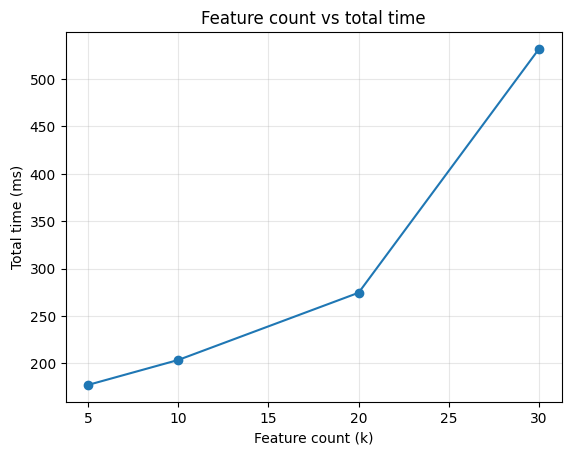
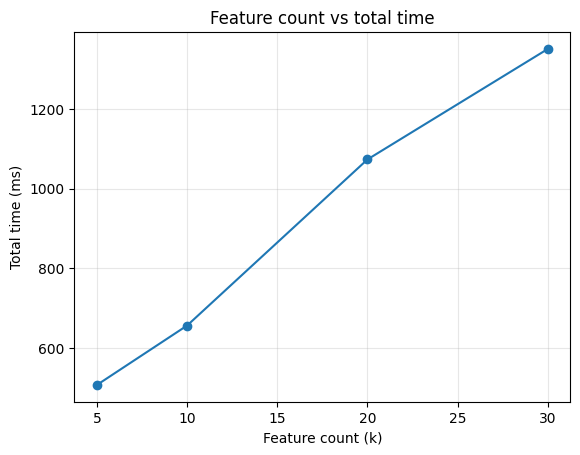
Fix encoded plaintext calculation in UI

diff --git a/ui/streamlit_app.py b/ui/streamlit_app.py
@@ -9,15 +9,16 @@ import warnings
 from pathlib import Path
 from typing import Any
 
+import numpy as np
 import pandas as pd
 import requests
 import streamlit as st
 
 from app.client import Client
-from app.config import KEY_LENGTH, RANDOM_STATE, SCALE, TEST_SIZE
-from app.crypto import deserialize_ciphertext, serialize_ciphertext
+from app.config import KEY_LENGTH, RANDOM_STATE, SCALE, TEST_SIZE, THRESHOLD
+from app.crypto import decrypt_score, deserialize_ciphertext, serialize_ciphertext
 from app.data import load_dataset, split_dataset
-from app.encoding import encode_bias, encode_weights
+from app.encoding import decode_score, encode_bias, encode_weights, encoded_plaintext_score
 from app.model import extract_linear_params, load_model
 
 warnings.filterwarnings("ignore", category=UserWarning, module="sklearn")
@@ -28,7 +29,7 @@ st.set_page_config(page_title="Защищённый ML-инференс — Де
 MODEL_PATH = Path("results/models/model.pkl")
 TABLES_DIR = Path("results/tables")
 PLOTS_DIR = Path("results/plots")
-API_URL = os.getenv("API_URL", "http://api:8000")
+API_URL = os.getenv("API_URL", "http://localhost:8000")
 
 
 def _extract_server_compute_ms(payload: dict[str, Any]) -> float | None:
@@ -172,7 +173,10 @@ def show_live_protocol_demo(resources: dict[str, Any]) -> None:
         enc_score = deserialize_ciphertext(client.public_key, encrypted_score_str)
         t3 = time.perf_counter()
 
-        pred_secure, prob_secure = client.decrypt_and_predict(enc_score)
+        score_int = decrypt_score(client.private_key, enc_score)
+        z_secure = decode_score(score_int=score_int, scale=SCALE)
+        prob_secure = float(1.0 / (1.0 + np.exp(-z_secure)))
+        pred_secure = int(prob_secure >= THRESHOLD)
         t4 = time.perf_counter()
 
         pred_baseline = int(model.predict(sample.to_numpy(dtype=float).reshape(1, -1))[0])
@@ -180,7 +184,10 @@ def show_live_protocol_demo(resources: dict[str, Any]) -> None:
             model.predict_proba(sample.to_numpy(dtype=float).reshape(1, -1))[:, 1][0]
         )
 
-        pred_encoded = int(prob_secure >= 0.5)
+        w, b = extract_linear_params(model)
+        z_encoded = encoded_plaintext_score(x=x_scaled, w=w, b=b, scale=SCALE)
+        prob_encoded = float(1.0 / (1.0 + np.exp(-z_encoded)))
+        pred_encoded = int(prob_encoded >= THRESHOLD)
         payload_bytes = len(str(request_payload).encode("utf-8"))
         plaintext_bytes = len(sample.to_numpy(dtype=float).tobytes())
         overhead_ratio = payload_bytes / max(plaintext_bytes, 1)
@@ -191,8 +198,12 @@ def show_live_protocol_demo(resources: dict[str, Any]) -> None:
             "x_int": x_int,
             "enc_x": enc_x,
             "encrypted_score": encrypted_score_str,
+            "score_int": score_int,
+            "z_secure": z_secure,
             "prob_secure": prob_secure,
             "pred_secure": pred_secure,
+            "z_encoded": z_encoded,
+            "prob_encoded": prob_encoded,
             "pred_encoded": pred_encoded,
             "pred_baseline": pred_baseline,
             "prob_baseline": prob_baseline,
@@ -281,33 +292,49 @@ def show_live_protocol_demo(resources: dict[str, Any]) -> None:
         )
 
     st.markdown("**Расшифровка и итог**")
-    st.write(
-        f"Расшифрованная оценка (score, сериализованное значение): `{result['encrypted_score'][:80]}...`"
+    decrypt_steps_df = pd.DataFrame(
+        [
+            {
+                "Этап": "Зашифрованный score (шифртекст)",
+                "Значение": f"{result['encrypted_score'][:80]}...",
+            },
+            {"Этап": "Расшифрованный score_int", "Значение": str(result["score_int"])},
+            {"Этап": "Декодированный z", "Значение": f"{result['z_secure']:.6f}"},
+            {"Этап": "Вероятность sigmoid(z)", "Значение": f"{result['prob_secure']:.6f}"},
+            {"Этап": "Предсказание", "Значение": str(result["pred_secure"])},
+        ]
     )
-    st.write(f"Сигмоида(score): **{result['prob_secure']:.6f}**")
-    st.write(f"Итоговый прогноз: **{result['pred_secure']}**")
+    st.dataframe(decrypt_steps_df, width="stretch")
 
     st.subheader("Шаг 3. Сравнение прогнозов")
     comparison_df = pd.DataFrame(
         [
             {
+                "Метод": "Baseline",
                 "Истинная метка": result["true_label"],
-                "Baseline": result["pred_baseline"],
-                "Encoded": result["pred_encoded"],
-                "PHE": result["pred_secure"],
-                "Совпадение Baseline/PHE": "Да"
-                if result["pred_baseline"] == result["pred_secure"]
-                else "Нет",
-            }
+                "Вероятность": result["prob_baseline"],
+                "Предсказание": result["pred_baseline"],
+            },
+            {
+                "Метод": "Encoded plaintext",
+                "Истинная метка": result["true_label"],
+                "Вероятность": result["prob_encoded"],
+                "Предсказание": result["pred_encoded"],
+            },
+            {
+                "Метод": "PHE inference",
+                "Истинная метка": result["true_label"],
+                "Вероятность": result["prob_secure"],
+                "Предсказание": result["pred_secure"],
+            },
         ]
     )
+    comparison_df["Вероятность"] = comparison_df["Вероятность"].map(lambda v: f"{float(v):.6f}")
+    comparison_df["Совпадение Baseline/PHE"] = (
+        "Да" if result["pred_baseline"] == result["pred_secure"] else "Нет"
+    )
 
-    def _highlight_match(row: pd.Series) -> list[str]:
-        ok = row["Совпадение Baseline/PHE"] == "Да"
-        color = "background-color: #d1fae5" if ok else "background-color: #fee2e2"
-        return ["", "", "", "", color]
-
-    st.dataframe(comparison_df.style.apply(_highlight_match, axis=1), width="stretch")
+    st.dataframe(comparison_df, width="stretch")
 
 
 def show_metrics_dashboard() -> None: